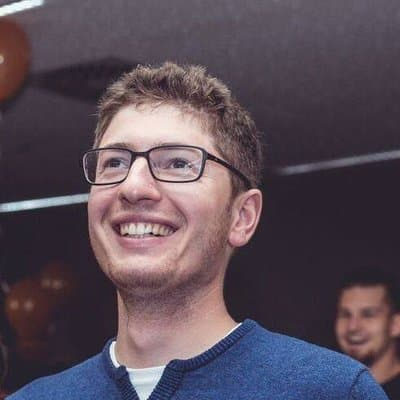
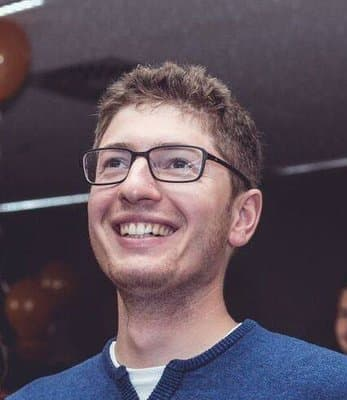
Center out speaker's photos

diff --git a/src/css/components/box/card.scss b/src/css/components/box/card.scss
@@ -103,11 +103,10 @@
 		#{$b}__content {
 			display: flex;
 			flex-direction: column;
-			// background-color: $colorPurpleBg;
 			padding: 25px;
 		}
 		#{$b}__img {
-			flex: 0 0 150px;
+			flex: 0 0 130px;
 			height: initial;
 			padding: 0;
 		}
